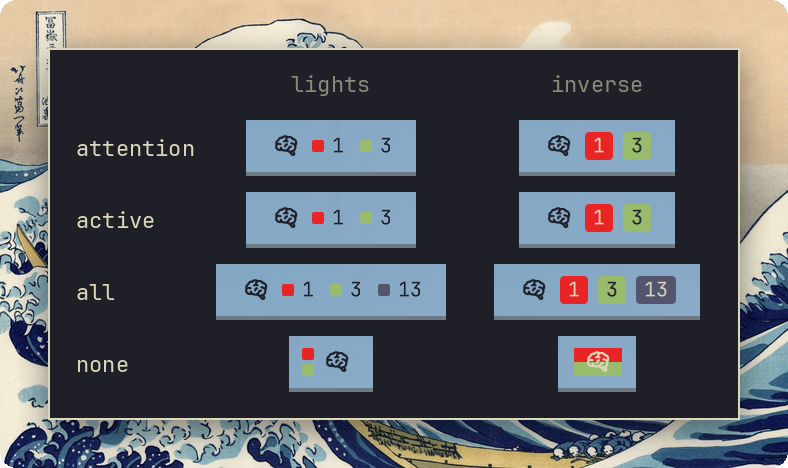
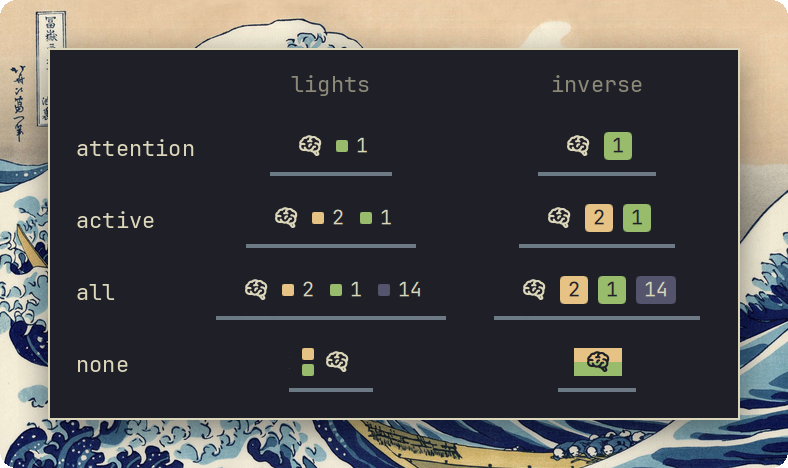
scanIntervalSec setting; bar-state grid on an opaque bar

diff --git a/Widget.qml b/Widget.qml
@@ -53,6 +53,8 @@ Panel {
   }
 
   readonly property string daemonPath: Qt.resolvedUrl("bin/omaherdr-daemon").toString().replace(/^file:\/\//, "")
+  // How often the daemon looks for herdr clients coming and going (agent status is pushed, not polled).
+  readonly property int scanIntervalSec: Math.max(2, Math.min(60, Number(setting("scanIntervalSec", 5))))
 
   function setting(name, fallback) {
     var s = root.settings || ({})
@@ -133,7 +135,7 @@ Panel {
   // ---------------------------------------------------------------- daemon
   Process {
     id: daemon
-    command: [root.daemonPath]
+    command: [root.daemonPath, "--scan", String(root.scanIntervalSec)]
     running: true
     stdinEnabled: true
     stdout: SplitParser {

diff --git a/README.md b/README.md
@@ -40,7 +40,7 @@ The bar shows the icon with traffic lights: red for agents waiting for input, ye
 | `i` | cycle the bar icon |
 | `R` | refresh |
 
-Status is live: the daemon subscribes to herdr's events, so the bar flips the moment an agent blocks on a question or finishes. `since` is how long the agent has been in its current state, as observed from here. Settings live on the bar entry: `omarchy bar set njpatel.omaherdr barMetric all` (or `barIcon`, `view`).
+Status is live: the daemon subscribes to herdr's events, so the bar flips the moment an agent blocks on a question or finishes. `since` is how long the agent has been in its current state, as observed from here. Settings live on the bar entry: `omarchy bar set njpatel.omaherdr barMetric all` (or `barStyle`, `barIcon`, `view`, and `scanIntervalSec` for how often new or closed sessions are looked for, default 5).
 
 ## How it works
 
